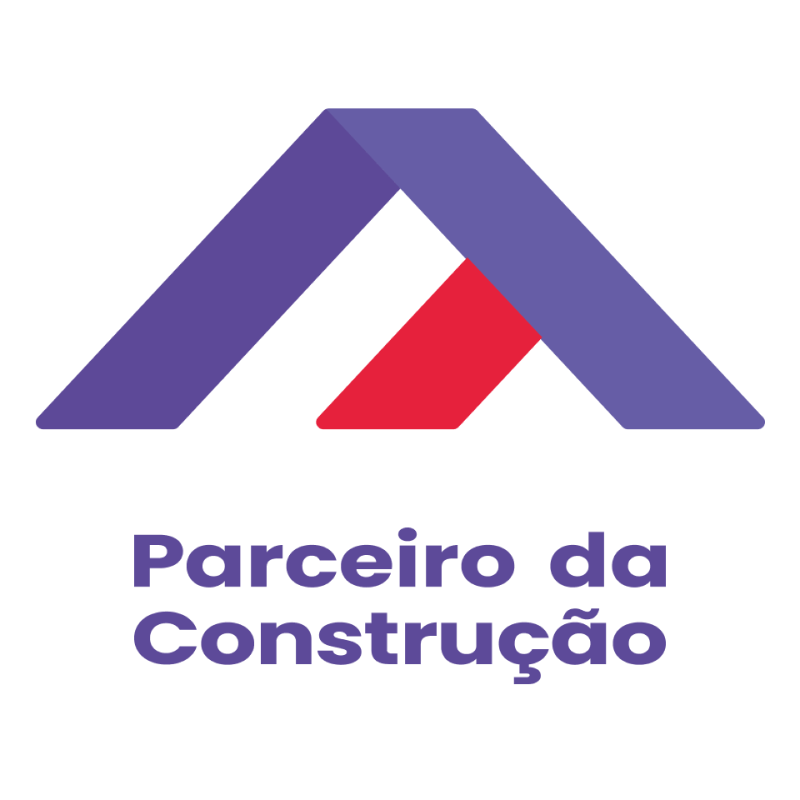
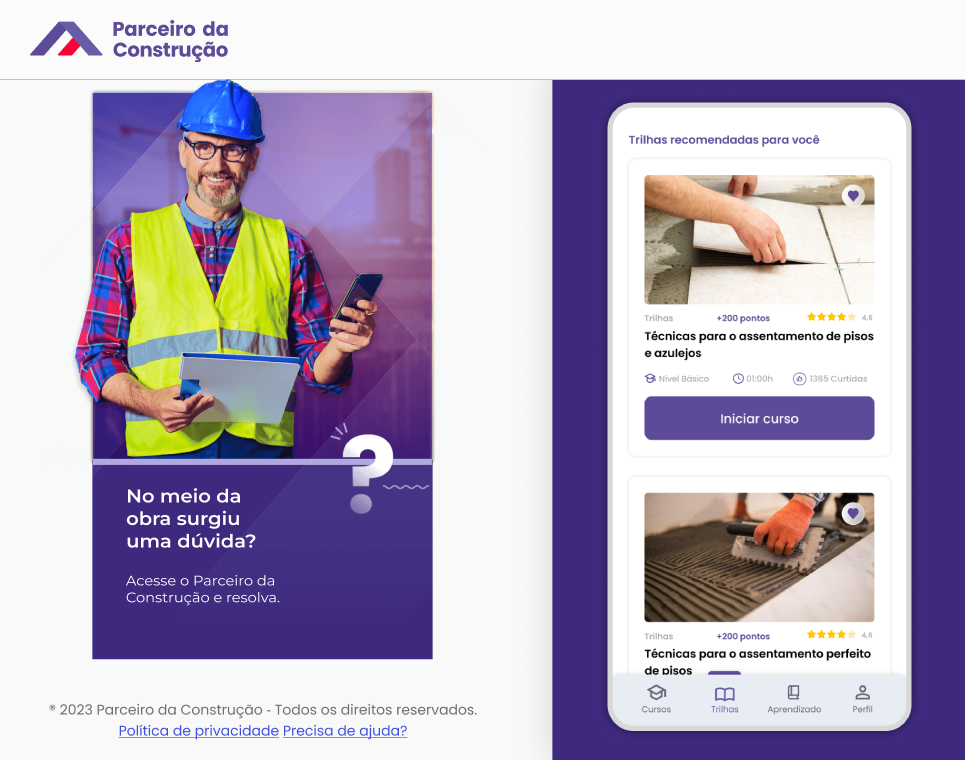
fix pages asset paths

diff --git a/src/data/portfolio.ts b/src/data/portfolio.ts
@@ -50,7 +50,7 @@ export const portfolioItems = [
   {
     id: 5,
     animationOrder: 5,
-    imageSrc: "/portfolio/assets/images/gallery/parceiro.png",
+    imageSrc: "/portfolio/assets/images/gallery/pdc.png",
     width: 1400,
     height: 1400,
     title: "Parceiro da Construção",
@@ -134,7 +134,7 @@ export const portfolioItems = [
   {
     id: 12,
     animationOrder: 12,
-    imageSrc: "/portfolio/assets/images/gallery/pdc.png",
+    imageSrc: "/portfolio/assets/images/gallery/topotronics.png",
     width: 800,
     height: 800,
     title: "Topotronics",